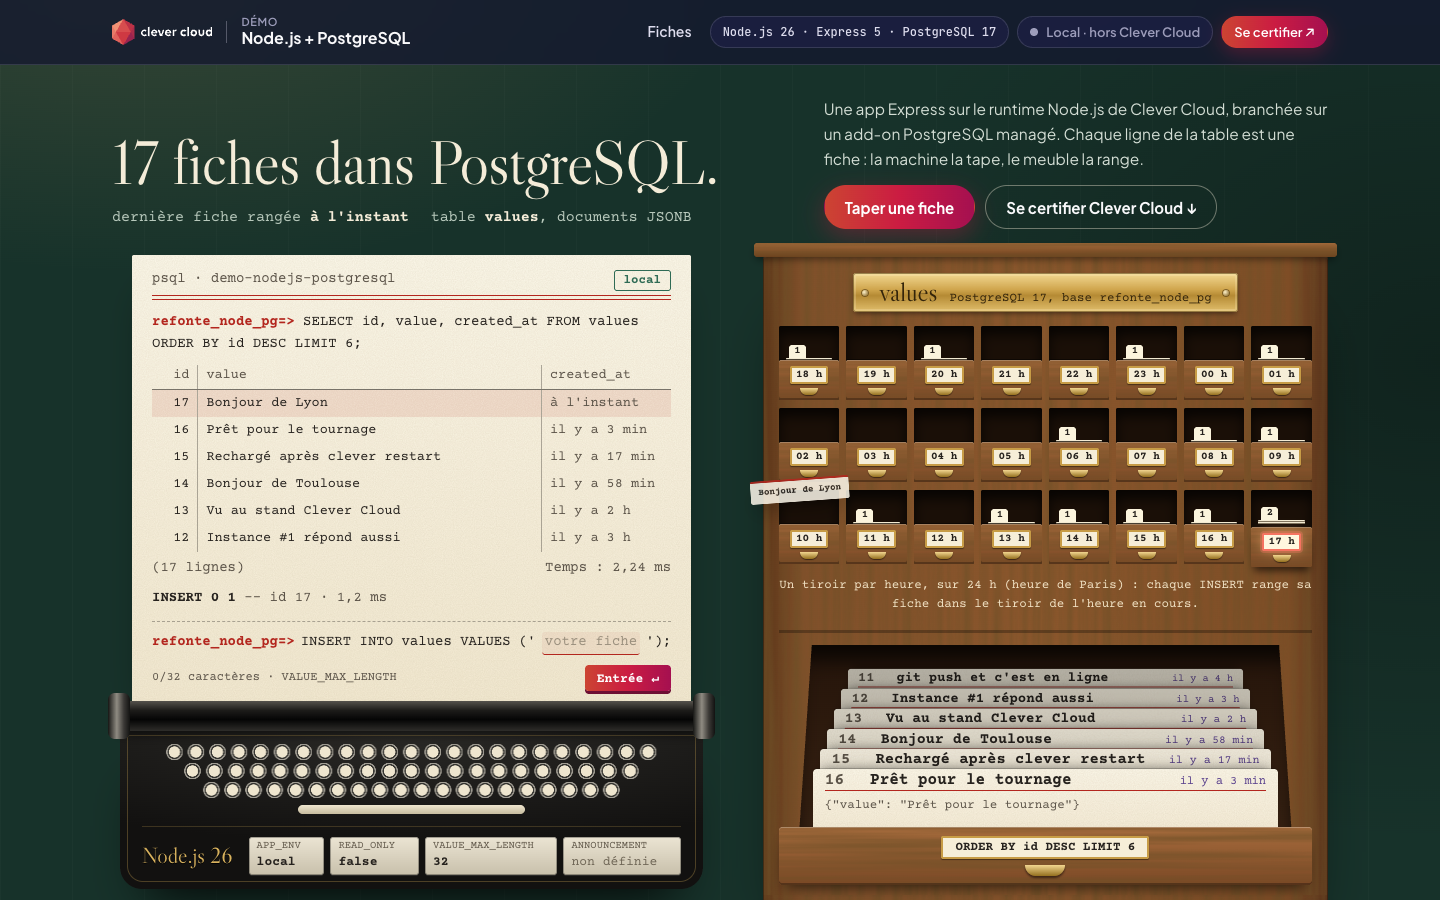
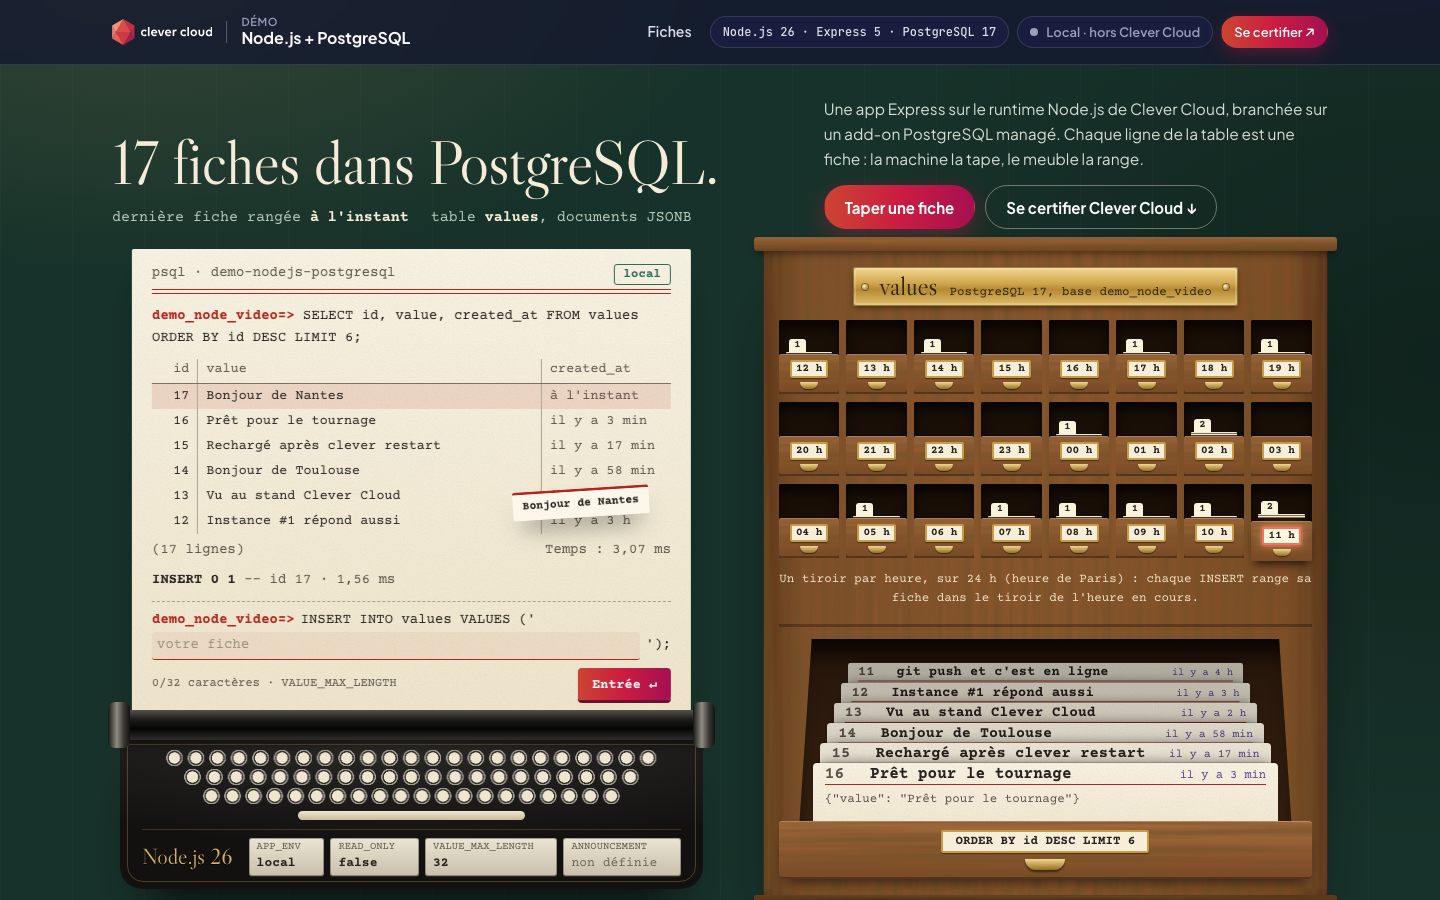
Visual review fixes and a 10-second animated tour

Changed region(s): [[0.5, 0.2489, 0.9375, 1.0], [0.0625, 0.2489, 0.5, 0.9644]]

diff --git a/public/demo.css b/public/demo.css
@@ -50,7 +50,7 @@ main { flex: 1; }
 .fi-notice code { font: 700 11.5px/1.6 var(--typed); color: #fff; background: var(--ribbon); padding: 1px 8px; border-radius: 3px; white-space: nowrap; }
 
 /* ---------- En-tête de la page ---------- */
-.fi-head { display: grid; grid-template-columns: minmax(0, 1.3fr) minmax(0, 1fr); gap: 16px 56px; align-items: end; padding-block: clamp(22px, 2.8vw, 32px) clamp(20px, 2.2vw, 26px); }
+.fi-head { display: grid; grid-template-columns: minmax(0, 1.3fr) minmax(0, 1fr); gap: 16px 56px; align-items: end; padding-block: clamp(22px, 2.8vw, 32px) clamp(18px, 1.8vw, 20px); }
 .fi-title { font-family: var(--serif); font-weight: 400; font-size: clamp(40px, 4.4vw, 62px); line-height: 1; letter-spacing: -0.012em; color: var(--wall-text); text-wrap: balance; }
 .fi-meta { display: flex; flex-wrap: wrap; gap: 4px 22px; margin-top: 14px; font: 15px/1.5 var(--typed); color: var(--wall-soft); }
 .fi-meta b { color: var(--wall-text); }
@@ -81,7 +81,7 @@ main { flex: 1; }
 .fi-prompt { color: var(--ribbon); font-weight: 700; }
 .fi-psql { width: 100%; margin: 10px 0 6px; border-collapse: collapse; table-layout: fixed; font-size: 13.5px; }
 .fi-psql th { padding: 0 8px 3px; text-align: left; font-weight: 400; color: var(--ink-2); border-bottom: 1px solid rgba(38, 34, 30, 0.6); }
-.fi-psql td { padding: 3px 8px; white-space: nowrap; overflow: hidden; text-overflow: ellipsis; }
+.fi-psql td { padding: 2px 8px; white-space: nowrap; overflow: hidden; text-overflow: ellipsis; }
 .fi-psql th + th, .fi-psql td + td { border-left: 1px solid rgba(38, 34, 30, 0.35); }
 .fi-psql th:first-child, .fi-psql td:first-child { width: 3.4em; text-align: right; }
 .fi-psql th:last-child, .fi-psql td:last-child { width: 9.6em; color: var(--ink-2); }
@@ -93,16 +93,17 @@ main { flex: 1; }
 .fi-log li { overflow-wrap: anywhere; color: var(--ink-2); }
 .fi-log li b { color: var(--ink); }
 .fi-log li.is-error, .fi-log li.is-error b { color: var(--ribbon); }
-.fi-insert { display: flex; flex-wrap: wrap; align-items: baseline; gap: 0 6px; margin-top: 12px; padding-top: 10px; border-top: 1px dashed rgba(38, 34, 30, 0.35); }
+.fi-insert { display: flex; flex-wrap: wrap; align-items: baseline; gap: 0 6px; margin-top: 10px; padding-top: 8px; border-top: 1px dashed rgba(38, 34, 30, 0.35); }
 .fi-insert__sql { white-space: nowrap; }
-.fi-insert__field { flex: 1 1 14ch; min-width: 14ch; display: flex; align-items: baseline; gap: 6px; }
-.fi-insert input { flex: 1; min-width: 0; padding: 0 3px; font: inherit; font-weight: 700; color: var(--ink); background: transparent; border: 0; border-bottom: 1.5px solid rgba(38, 34, 30, 0.45); border-radius: 0; caret-color: var(--ribbon); }
+.fi-insert__field { flex: 1 1 20ch; min-width: 20ch; display: flex; align-items: baseline; gap: 6px; }
+.fi-insert input { flex: 1; min-width: 0; min-height: 28px; padding: 0 5px; font: inherit; font-weight: 700; color: var(--ink); background: transparent; border: 0; border-bottom: 1.5px solid rgba(38, 34, 30, 0.45); border-radius: 0; caret-color: var(--ribbon); }
 .fi-insert input::placeholder { color: #9a8f7d; font-weight: 400; }
 .fi-insert input:focus { outline: none; border-bottom-color: var(--ribbon); background: rgba(179, 38, 30, 0.06); }
-.fi-insert__foot { flex-basis: 100%; display: flex; align-items: center; justify-content: space-between; gap: 12px; margin-top: 10px; }
+.fi-insert__foot { flex-basis: 100%; display: flex; align-items: center; justify-content: space-between; gap: 12px; margin-top: 8px; }
 .fi-counter { font-size: 12px; color: var(--ink-2); }
 .fi-counter.is-full { color: var(--ribbon); font-weight: 700; }
-.fi-insert__go { flex: none; padding: 5px 12px; font: 700 13px var(--typed); color: #fff; background: var(--clever); border: 0; border-radius: 4px; cursor: pointer; box-shadow: 0 3px 0 #6d0f33; }
+.fi-insert__go { flex: none; min-height: 32px; padding: 5px 14px; font: 700 13.5px var(--typed); color: #fff; background: var(--clever); border: 0; border-radius: 4px; cursor: pointer; box-shadow: 0 3px 0 #6d0f33; }
+.fi-insert__go:hover { filter: brightness(1.08); }
 .fi-insert__go:active { transform: translateY(2px); box-shadow: 0 1px 0 #6d0f33; }
 .fi-insert__go[disabled] { opacity: 0.6; cursor: progress; }
 .fi-cmd--locked { margin-top: 12px; color: var(--ribbon); }
@@ -115,14 +116,14 @@ main { flex: 1; }
 .fi-platen::before, .fi-platen::after { content: ""; position: absolute; top: -8px; width: 22px; height: 46px; border-radius: 7px; background: linear-gradient(90deg, #161614, #8f8b82 40%, #3b3936 72%, #121211); }
 .fi-platen::before { left: -4px; }
 .fi-platen::after { right: -4px; }
-.fi-body { position: relative; margin: -3px 8px 0; padding: 16px 22px 14px; border-radius: 4px 4px 22px 22px; background: radial-gradient(120% 100% at 50% 0%, #2b2a27, #121110 72%); box-shadow: inset 0 1px 0 rgba(255, 255, 255, 0.07), 0 34px 50px -28px rgba(0, 0, 0, 0.9); }
+.fi-body { position: relative; margin: -3px 8px 0; padding: 13px 22px 13px; border-radius: 4px 4px 22px 22px; background: radial-gradient(120% 100% at 50% 0%, #2b2a27, #121110 72%); box-shadow: inset 0 1px 0 rgba(255, 255, 255, 0.07), 0 34px 50px -28px rgba(0, 0, 0, 0.9); }
 .fi-body::before { content: ""; position: absolute; inset: 7px; border: 1px solid rgba(212, 172, 85, 0.3); border-radius: 3px 3px 16px 16px; pointer-events: none; }
 .fi-keys { display: grid; justify-items: center; gap: 3px; }
 .fi-keys i { display: block; width: 92%; height: 16px; background: radial-gradient(circle, #efe6cf 0 5.4px, #34332f 5.9px 6.8px, #a29e94 7.2px 8.1px, transparent 8.6px) 0 50% / 21px 16px space no-repeat; }
 .fi-keys i:nth-child(2) { width: 85%; }
 .fi-keys i:nth-child(3) { width: 78%; }
 .fi-keys .fi-keys__space { width: 42%; height: 9px; margin-top: 4px; border-radius: 5px; background: linear-gradient(180deg, #efe6cf, #c7bc9f); }
-.fi-front { display: flex; align-items: center; gap: 10px 16px; margin-top: 12px; padding-top: 10px; border-top: 1px solid rgba(212, 172, 85, 0.22); }
+.fi-front { display: flex; align-items: center; gap: 10px 16px; margin-top: 9px; padding-top: 8px; border-top: 1px solid rgba(212, 172, 85, 0.22); }
 .fi-nameplate { flex: none; font: 22px/1 var(--serif); color: #d8b25e; text-shadow: 0 1px 0 #000; white-space: nowrap; }
 .fi-config { flex: 1; display: flex; flex-wrap: wrap; gap: 6px; list-style: none; margin: 0; padding: 0; min-width: 0; }
 .fi-config li { flex: 1 1 auto; min-width: 0; padding: 3px 8px 4px; border-radius: 3px; background: linear-gradient(180deg, #ebe4d3, #c8c0ab); color: var(--ink); font-family: var(--typed); box-shadow: inset 0 0 0 1px rgba(0, 0, 0, 0.3), 0 1px 0 rgba(255, 255, 255, 0.1); }
@@ -194,33 +195,33 @@ main { flex: 1; }
 .fi-pull { width: 40px; height: 11px; border-radius: 0 0 20px 20px; background: linear-gradient(180deg, #f2d690, #94701f); box-shadow: 0 2px 2px rgba(0, 0, 0, 0.5); }
 
 /* La plaque du fabricant : Running on Clever Cloud */
-.fi-plaque { margin: 26px 22px 0; padding: 11px 18px 13px; border-radius: 4px; }
+.fi-plaque { grid-column: 1 / -1; margin: 0; padding: 12px 22px 15px; border-radius: 4px; }
 .fi-plaque__head { display: flex; align-items: center; justify-content: space-between; gap: 12px; margin: 0 0 8px; padding-bottom: 6px; border-bottom: 1px solid rgba(60, 40, 8, 0.35); }
 .fi-plaque__head b { font: 19px/1.1 var(--serif); font-weight: 400; }
 .fi-plaque__tag { padding: 0 8px; border: 1.5px solid currentColor; border-radius: 3px; font: 700 12.5px/1.5 var(--typed); }
 .fi-plaque__tag.is-live { color: #fff; border-color: transparent; background: var(--clever); }
-.fi-plaque dl { display: grid; grid-template-columns: max-content minmax(0, 1fr); gap: 3px 18px; align-items: baseline; margin: 0; }
-.fi-plaque dl > div { display: contents; }
+.fi-plaque dl { display: grid; grid-template-columns: repeat(3, minmax(0, 1fr)); gap: 10px 32px; align-items: start; margin: 0; }
+.fi-plaque dl > div { min-width: 0; }
 .fi-plaque dt { font-size: 11.5px; font-weight: 600; color: #5a4413; }
-.fi-plaque dd { margin: 0; font: 700 13px/1.35 var(--typed); overflow-wrap: anywhere; }
+.fi-plaque dd { margin: 1px 0 0; font: 700 13.5px/1.35 var(--typed); overflow-wrap: anywhere; }
 .fi-plaque dd.is-empty { font-weight: 400; font-style: italic; color: #4f3c12; font-size: 12.5px; }
 
 /* ---------- Le trajet d'une demande (tube pneumatique) ---------- */
 .fi-route { padding-block: clamp(44px, 6vw, 72px); background: rgba(0, 0, 0, 0.2); border-block: 1px solid rgba(255, 255, 255, 0.06); }
-.fi-route__grid { display: grid; grid-template-columns: minmax(0, 0.9fr) minmax(0, 1.1fr); gap: clamp(28px, 4vw, 64px); align-items: start; }
-.fi-h2 { font: 400 clamp(28px, 3.2vw, 40px)/1.1 var(--serif); color: var(--wall-text); }
+.fi-route__grid { display: grid; grid-template-columns: minmax(0, 0.8fr) minmax(0, 1.2fr); gap: clamp(28px, 4vw, 64px); align-items: start; margin-top: clamp(36px, 4vw, 52px); }
+.fi-h2 { font: 400 clamp(28px, 3.2vw, 40px)/1.1 var(--serif); color: var(--wall-text); text-wrap: balance; }
 .fi-sub { margin-top: 8px; color: var(--wall-soft); font-size: 15px; }
 .fi-sub code { font-family: var(--typed); font-weight: 700; color: var(--wall-text); }
 .fi-tube { position: relative; display: grid; grid-template-columns: repeat(4, minmax(0, 1fr)); list-style: none; margin: 36px 0 0; padding: 0; }
-.fi-tube::before { content: ""; position: absolute; left: 10px; right: 12%; top: 8px; height: 9px; border-radius: 5px; background: linear-gradient(180deg, #f2d690, #b8892f 50%, #74531a); box-shadow: 0 2px 3px rgba(0, 0, 0, 0.45); }
+.fi-tube::before { content: ""; position: absolute; left: 10px; right: calc(25% - 24px); top: 8px; height: 9px; border-radius: 5px; background: linear-gradient(180deg, #f2d690, #b8892f 50%, #74531a); box-shadow: 0 2px 3px rgba(0, 0, 0, 0.45); }
 .fi-tube::after { content: ""; position: absolute; top: 4px; left: 0; width: 28px; height: 17px; border-radius: 9px; background: linear-gradient(180deg, #fbf3dc, #c9b98f); box-shadow: inset 0 0 0 1.5px #74531a, 0 2px 4px rgba(0, 0, 0, 0.5); animation: fi-tube 3.6s cubic-bezier(0.45, 0, 0.2, 1) infinite; }
-@keyframes fi-tube { 0% { left: 0; opacity: 0; } 8% { opacity: 1; } 86% { opacity: 1; } 100% { left: calc(75% - 4px); opacity: 0; } }
-.fi-tube li { position: relative; min-width: 0; padding: 36px 10px 0 0; }
+@keyframes fi-tube { 0% { left: 0; opacity: 0; } 8% { opacity: 1; } 86% { opacity: 1; } 100% { left: calc(75% - 10px); opacity: 0; } }
+.fi-tube li { position: relative; min-width: 0; padding: 38px 16px 0 0; }
 .fi-tube li::before { content: ""; position: absolute; top: 2px; left: 4px; width: 21px; height: 21px; border-radius: 50%; background: radial-gradient(circle at 38% 35%, #f8e2a4, #9b7224 72%); box-shadow: 0 0 0 3px rgba(0, 0, 0, 0.3); }
-.fi-tube i { display: block; font: normal 18px/1.2 var(--serif); color: #f1e2c4; }
+.fi-tube i { display: block; font: normal 19px/1.2 var(--serif); color: #f1e2c4; }
 .fi-tube b { display: block; margin-top: 8px; font-size: 14.5px; color: var(--wall-text); }
-.fi-tube span { display: block; font: 13px/1.4 var(--typed); color: var(--wall-soft); overflow-wrap: anywhere; }
-.fi-h3 { margin-top: 40px; font: 400 21px/1.2 var(--serif); color: var(--wall-text); }
+.fi-tube span { display: block; margin-top: 2px; font: 13px/1.4 var(--typed); color: var(--wall-soft); overflow-wrap: anywhere; text-wrap: balance; }
+.fi-h3 { font: 400 21px/1.2 var(--serif); color: var(--wall-text); }
 .fi-ledger { margin: 12px 0 0; }
 .fi-ledger div { padding: 9px 0; border-top: 1px dashed rgba(244, 236, 216, 0.18); }
 .fi-ledger dt { font: 700 13.5px var(--typed); color: #f1e2c4; overflow-wrap: anywhere; }
@@ -230,7 +231,7 @@ main { flex: 1; }
 .fi-bulletin figcaption { margin-bottom: 10px; padding-bottom: 8px; border-bottom: 1.5px solid var(--ribbon); }
 .fi-bulletin figcaption b { display: block; font: 21px/1.2 var(--serif); font-weight: 400; }
 .fi-bulletin figcaption span { display: block; margin-top: 2px; font-size: 13px; color: var(--ink-2); }
-.fi-sql { margin: 0; max-height: 340px; overflow: auto; font: 11.5px/1.5 var(--typed); white-space: pre; color: var(--ink); }
+.fi-sql { margin: 0; max-height: 380px; overflow: auto; font: 12.5px/1.55 var(--typed); white-space: pre; color: var(--ink); }
 .fi-bulletin__foot { display: flex; justify-content: space-between; gap: 12px; margin: 10px 0 0; padding-top: 8px; border-top: 1px dashed rgba(38, 34, 30, 0.35); font-size: 13px; color: var(--ink-2); }
 
 /* ---------- Carte de lecteur : certification Clever Cloud Academy ---------- */
@@ -276,7 +277,7 @@ main { flex: 1; }
 .fi-card__stamp { justify-self: end; align-self: center; padding: 0 6px; border: 1.5px solid currentColor; border-radius: 3px; color: var(--stamp); font-size: 11.5px; line-height: 17px; white-space: nowrap; transform: rotate(-3deg); opacity: 0.88; }
 .fi-card__value { grid-column: 1 / -1; margin-top: 18px; font-weight: 700; font-size: 16px; line-height: 22px; overflow-wrap: anywhere; }
 .fi-card__json { grid-column: 1 / -1; font-size: 12px; line-height: 22px; color: var(--ink-2); white-space: nowrap; overflow: hidden; text-overflow: ellipsis; }
-.fi-card__out { position: absolute; right: 8px; bottom: 6px; padding: 1px 8px; border: 1px solid rgba(179, 38, 30, 0.5); border-radius: 3px; background: transparent; color: var(--ribbon); font: 700 12px var(--typed); cursor: pointer; }
+.fi-card__out { position: absolute; right: 8px; bottom: 5px; min-height: 24px; padding: 2px 10px; border: 1px solid rgba(179, 38, 30, 0.5); border-radius: 3px; background: transparent; color: var(--ribbon); font: 700 12px var(--typed); cursor: pointer; }
 .fi-card__out:hover { background: rgba(179, 38, 30, 0.1); }
 .fi-card__out[disabled] { opacity: 0.5; cursor: progress; }
 .fi-card.is-new { animation: fi-drop 0.6s cubic-bezier(0.2, 0.7, 0.2, 1); }
@@ -313,7 +314,10 @@ main { flex: 1; }
 @media (max-width: 1080px) {
   .fi-head, .fi-stage, .fi-route__grid { grid-template-columns: minmax(0, 1fr); }
   .fi-head { align-items: start; }
-  .fi-cabinet { max-width: 680px; }
+  .fi-machine, .fi-cabinet, .fi-plaque { width: 100%; max-width: 680px; justify-self: center; }
+  .fi-plaque dl { grid-template-columns: max-content minmax(0, 1fr); gap: 3px 18px; align-items: baseline; }
+  .fi-plaque dl > div { display: contents; }
+  .fi-plaque dd { margin: 0; }
 }
 @media (max-width: 900px) {
   .cc-topbar__inner { flex-wrap: wrap; row-gap: 8px; padding-block: 10px; }
@@ -329,6 +333,11 @@ main { flex: 1; }
   .fi-psql th, .fi-psql td { padding-inline: 5px; }
   .fi-psql th:first-child, .fi-psql td:first-child { width: 2.6em; }
   .fi-psql th:last-child, .fi-psql td:last-child { width: 8.4em; }
+  .fi-insert { row-gap: 2px; }
+  .fi-insert__field { flex-basis: 100%; align-items: center; margin-top: 4px; }
+  .fi-insert input { min-height: 44px; font-size: 16px; }
+  .fi-insert__go { min-height: 44px; padding-inline: 18px; font-size: 15px; }
+  .fi-counter { min-width: 0; line-height: 1.35; }
   .fi-body { margin-inline: 4px; padding: 14px 14px 14px; }
   .fi-keys { display: none; }
   .fi-front { flex-wrap: wrap; margin-top: 0; padding-top: 0; border-top: 0; }
@@ -340,11 +349,16 @@ main { flex: 1; }
   .fi-open { margin-inline: 6px; padding-inline: 8px; }
   .fi-tab { padding-inline: 9px; }
   .fi-tab__head { gap: 7px; font-size: 13px; }
-  .fi-plaque { margin-inline: 4px; }
   .fi-plaque dl { column-gap: 12px; }
   .fi-tube { grid-template-columns: repeat(2, minmax(0, 1fr)); row-gap: 22px; }
   .fi-tube::before, .fi-tube::after { display: none; }
   .fi-cert__tracks { grid-template-columns: minmax(0, 1fr); }
+  .fi-sql { font-size: 11.5px; }
+  .fi-cert__seal { justify-content: center; }
+  .fi-cert__seal .cc-cert__badge { width: 124px; }
+  .fi-card { padding-bottom: 44px; }
+  .fi-card::after { bottom: 15px; }
+  .fi-card__out { right: 10px; bottom: 8px; min-height: 32px; padding: 4px 14px; font-size: 13px; }
   .fi-notice .cc-container { flex-wrap: wrap; gap: 6px 12px; }
 }
 @media (max-width: 480px) {

diff --git a/README.md b/README.md
@@ -2,6 +2,8 @@
 
 > The card catalogue of an old library, where every row of a PostgreSQL table is an index card. On the left, the librarian's typewriter is a real psql session: the `SELECT` and its result are typed on the slip with the time the query took; type a value at the `INSERT INTO values VALUES ('…')` prompt, press Enter, and the slip answers `INSERT 0 1` while the new card flies into the drawer of the current hour. On the right, the oak cabinet has one drawer per hour over the last 24 hours (the write pulse), and the drawer opened by the `SELECT` shows the six latest cards. Express 5 runs on the **Node.js runtime**, the cards are JSONB documents in a **PostgreSQL add-on**, and the whole page is drawn from a single SQL query, printed further down. Four environment variables change what the page does, from a notice to a read-only database.
 
+![Ten seconds of the demo run locally: two values typed at the psql typewriter, the slip answers INSERT 0 1 with the row id and the duration, each card flies to the drawer of the current hour and the title goes from 16 to 18 cards](docs/tour.gif)
+
 ![The first screen run locally, a quarter of a second after an INSERT typed at the psql typewriter: the slip answers INSERT 0 1, the new card flies to the drawer of the current hour, 17 cards in PostgreSQL](docs/screenshot-desktop.png)
 
 <img src="docs/screenshot-phone.png" alt="The first screen on a phone, run locally: the psql slip after an INSERT with the next value being typed, the demo variables on the typewriter and the hour drawers" width="300">
@@ -22,7 +24,7 @@
 | PostgreSQL add-on | `POSTGRESQL_ADDON_DIRECT_URI` when direct access is enabled, else `POSTGRESQL_ADDON_URI`, both injected by the linked add-on; a pool of `PG_POOL_MAX` connections | Title "N fiches dans PostgreSQL.", last card filed, one drawer per hour over 24 h with its card count, the six latest rows on the psql slip with `Temps : x ms` and in the open drawer, every card further down |
 | Writes | `INSERT … RETURNING` and `DELETE`, each timed on the server | `INSERT 0 1` or `DELETE 1` typed on the slip, with the row id and the duration, the card filed in its hour drawer, without reloading the page |
 | Environment variables | `APP_ENV`, `ANNOUNCEMENT`, `READ_ONLY`, `VALUE_MAX_LENGTH`, read once at startup | Shown on the four plates of the typewriter: environment tag on the slip, notice under the top bar, frozen database (writes answer 403, "Consultation seule" stamp), character counter. Change one in the Console, `clever restart`, reload |
-| Platform variables | `CC_APP_NAME`, `APP_ID`, `INSTANCE_NUMBER`, `INSTANCE_TYPE`, `CC_PRETTY_INSTANCE_NAME`, `CC_COMMIT_ID`, `CC_DEPLOYMENT_ID` | The "Running on Clever Cloud" brass plate under the cabinet, with `instance #N` in the request path; "Local" and "injecté au déploiement" outside the platform |
+| Platform variables | `CC_APP_NAME`, `APP_ID`, `INSTANCE_NUMBER`, `INSTANCE_TYPE`, `CC_PRETTY_INSTANCE_NAME`, `CC_COMMIT_ID`, `CC_DEPLOYMENT_ID` | The "Running on Clever Cloud" brass plate under the typewriter and the cabinet, with `instance #N` in the request path; "Local" and "injecté au déploiement" outside the platform |
 | Redeploy | SIGTERM handled: no new connections, in-flight requests finish, the pool is closed, forced exit after 8 s | The old instance stops cleanly |
 
 One query feeds the page: the total, the last write, 24 hourly counts and the 200 latest rows, aggregated in JSON. Its exact text is printed on the request slip ("Une seule requête SQL pour cette page."), next to the pneumatic tube that follows a request from the browser to the database. The `SELECT … LIMIT 6` typed on the psql slip is the readable form of it: the rows and the duration shown under it are real.

diff --git a/CLAUDE.md b/CLAUDE.md
@@ -135,8 +135,8 @@ clevercloud/node.json → config historique (redondante avec scripts.start)
 ## 🎨 Design — « Le fichier » + cadre Clever
 
 - Univers : le meuble à fiches d'une vieille bibliothèque. Mur vert salle de lecture, meuble en chêne, fiches cartonnées (filet rouge, réglures bleues, trou de tringle), machine à écrire noire, plaques en laiton, tampon violet pour `created_at`. Polices Google : Libre Caslon Display (titres gravés), Courier Prime (tout ce qui est tapé), Plus Jakarta Sans + JetBrains Mono (cadre Clever). Aucun fichier image : tout est en CSS (grain bois/papier en SVG `data:`).
-- Premier écran : titre « N fiches dans PostgreSQL. » → à gauche la machine à écrire (fiche psql : SELECT réel, résultat, `Temps : x ms`, journal `INSERT 0 1`, invite INSERT ; plaques APP_ENV / READ_ONLY / VALUE_MAX_LENGTH / ANNOUNCEMENT sur le corps) ; à droite le meuble (24 tiroirs = écritures par heure, heure de Paris, tiroir en cours surligné ; tiroir ouvert par le SELECT = 6 dernières fiches) et la plaque « Running on Clever Cloud ». Un INSERT : la fiche vole de la machine au tiroir de l'heure, puis entre dans le tiroir ouvert.
-- Plus bas : trajet d'une demande (tube pneumatique : lecteur → accueil Clever → bibliothécaire Node.js → magasin PostgreSQL) + texte exact de la requête unique de la page ; certification en carte de lecteur (`partials/cert.pug`, une seule inclusion par page à cause des `id` SVG) ; « Toutes les fiches » dans un plateau en bois.
+- Premier écran : titre « N fiches dans PostgreSQL. » → à gauche la machine à écrire (fiche psql : SELECT réel, résultat, `Temps : x ms`, journal `INSERT 0 1`, invite INSERT ; plaques APP_ENV / READ_ONLY / VALUE_MAX_LENGTH / ANNOUNCEMENT sur le corps) ; à droite le meuble (24 tiroirs = écritures par heure, heure de Paris, tiroir en cours surligné ; tiroir ouvert par le SELECT = 6 dernières fiches) ; sous les deux, sur toute la largeur, la plaque en laiton « Running on Clever Cloud » (trois colonnes ; une colonne sous le meuble en dessous de 1080 px). Un INSERT : la fiche vole de la machine au tiroir de l'heure, puis entre dans le tiroir ouvert.
+- Plus bas : trajet d'une demande (tube pneumatique sur toute la largeur : lecteur → accueil Clever → bibliothécaire Node.js → magasin PostgreSQL), puis « Ce que fait la plateforme » à côté du texte exact de la requête unique de la page ; certification en carte de lecteur (`partials/cert.pug`, une seule inclusion par page à cause des `id` SVG) ; « Toutes les fiches » dans un plateau en bois.
 - Les variables injectées par Clever (`CC_APP_NAME`, `APP_ID`, `INSTANCE_NUMBER`, `INSTANCE_TYPE`, `CC_PRETTY_INSTANCE_NAME`, `CC_COMMIT_ID`, `CC_DEPLOYMENT_ID`) sont lues par `db.js › platformInfo` et affichées sur la plaque ; absentes (local) → « Local » et « injecté au déploiement ». Sans `APP_ID` → pastille « Local · hors Clever Cloud » dans la topbar.
 - `cc-brand.css` est copié tel quel (jamais modifié). `prefers-reduced-motion` : plus de vol de fiche ni d'animation. Téléphone : marges 16 px, aucun défilement horizontal.
 - Spec d'origine du cadre : `docs/superpowers/specs/2026-09-06-clever-brand-design.md`.
